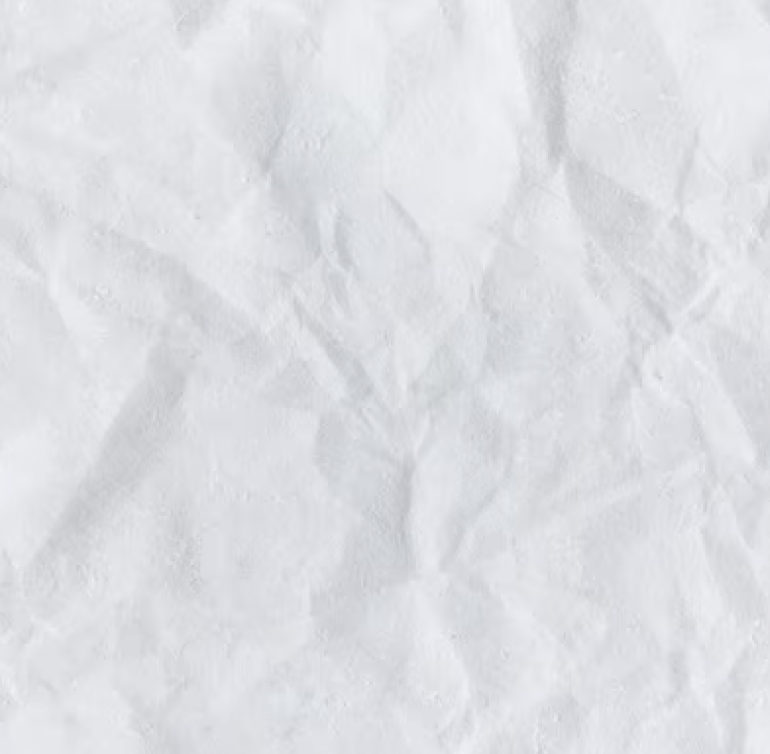
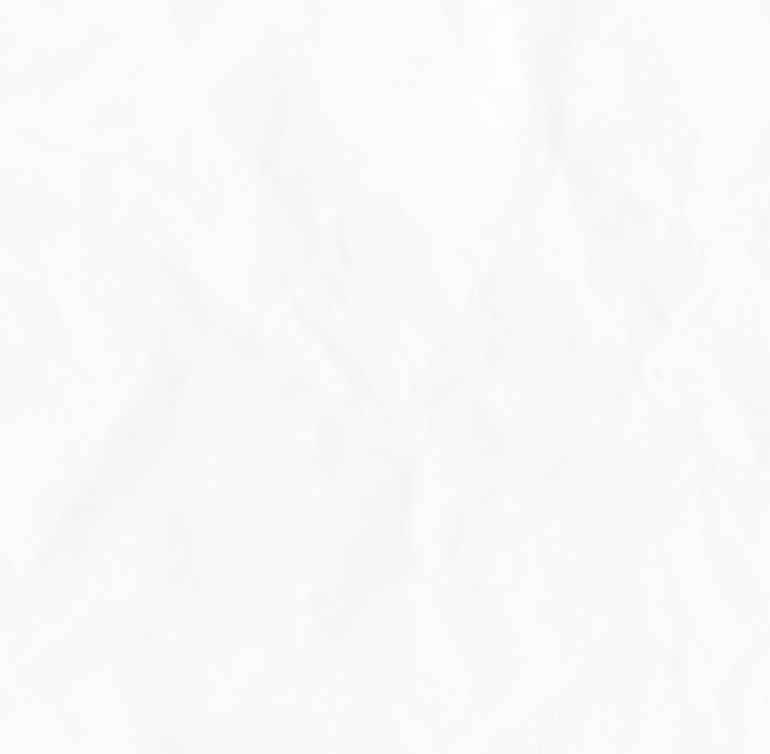
update paper texture

diff --git a/src/app/marketing/index.css b/src/app/marketing/index.css
@@ -14,6 +14,25 @@
   color: white;
 }
 
+.paper {
+    background-image: url(./art/paper.png);
+    background-repeat:repeat;
+}
+
+.paper::before {
+    content: "";
+    position: absolute;
+    top: 0;
+    left: 0;
+    right: 0;
+    bottom: 0;
+    background-image: url(./art/paper.png);
+    background-repeat: repeat;
+    opacity: 0.2;
+    z-index: -1;
+    pointer-events: none;
+}
+
 .adlam {
     font-family: 'ADLaM Display', sans-serif;
 }
